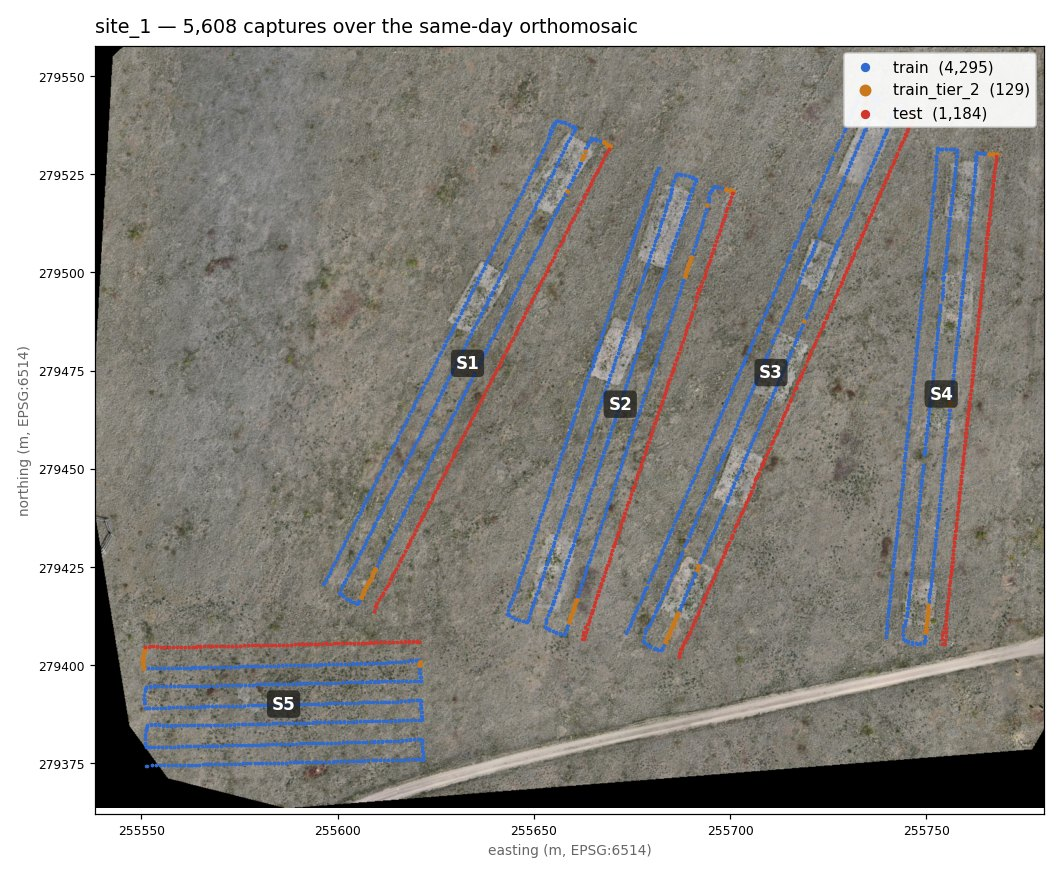
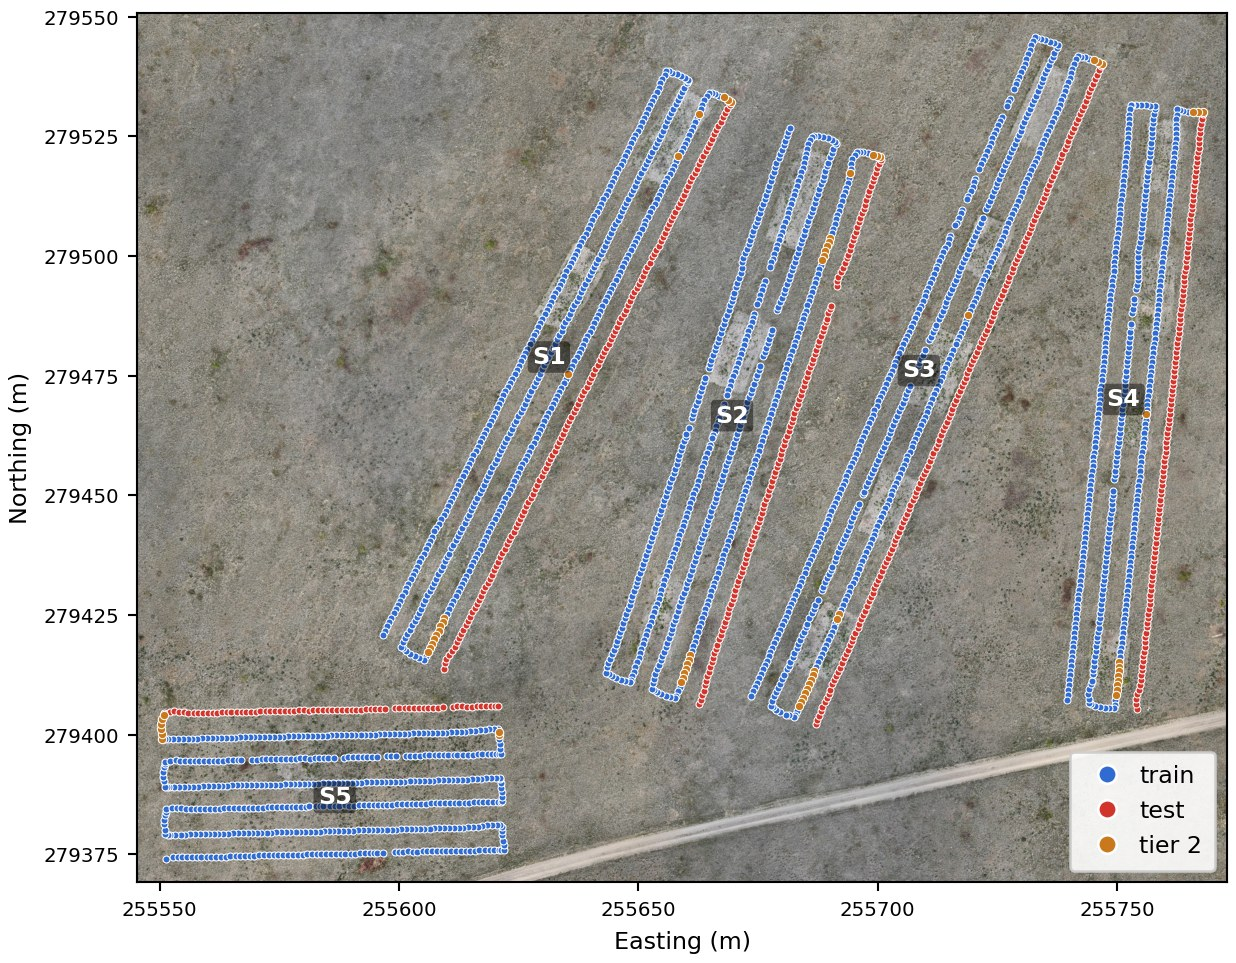
multimodal_dataset: card split maps redrawn over the re-exported orthomosaics, second capture event only

diff --git a/multimodal_dataset/card/README.md b/multimodal_dataset/card/README.md
@@ -200,7 +200,9 @@ automatically, so the same ground never straddles the train/test boundary.
 ![Site 1: every capture position colored by split](images/site_1_splits.jpg)
 ![Site 2: every capture position colored by split](images/site_2_splits.jpg)
 
-Every capture position, colored by split, over the site's own orthomosaic.
+The capture positions of the second capture event, colored by split, over the
+orthomosaic of the matching flight. The first capture event followed the same
+legs.
 The red test legs sit on the outside of each strip. The orange tier-2 rows hug
 them. At site 1, S5's test leg is on its eastern side rather than its western
 one. At site 2, S3's test leg runs alongside S2. The strips abut, which is
